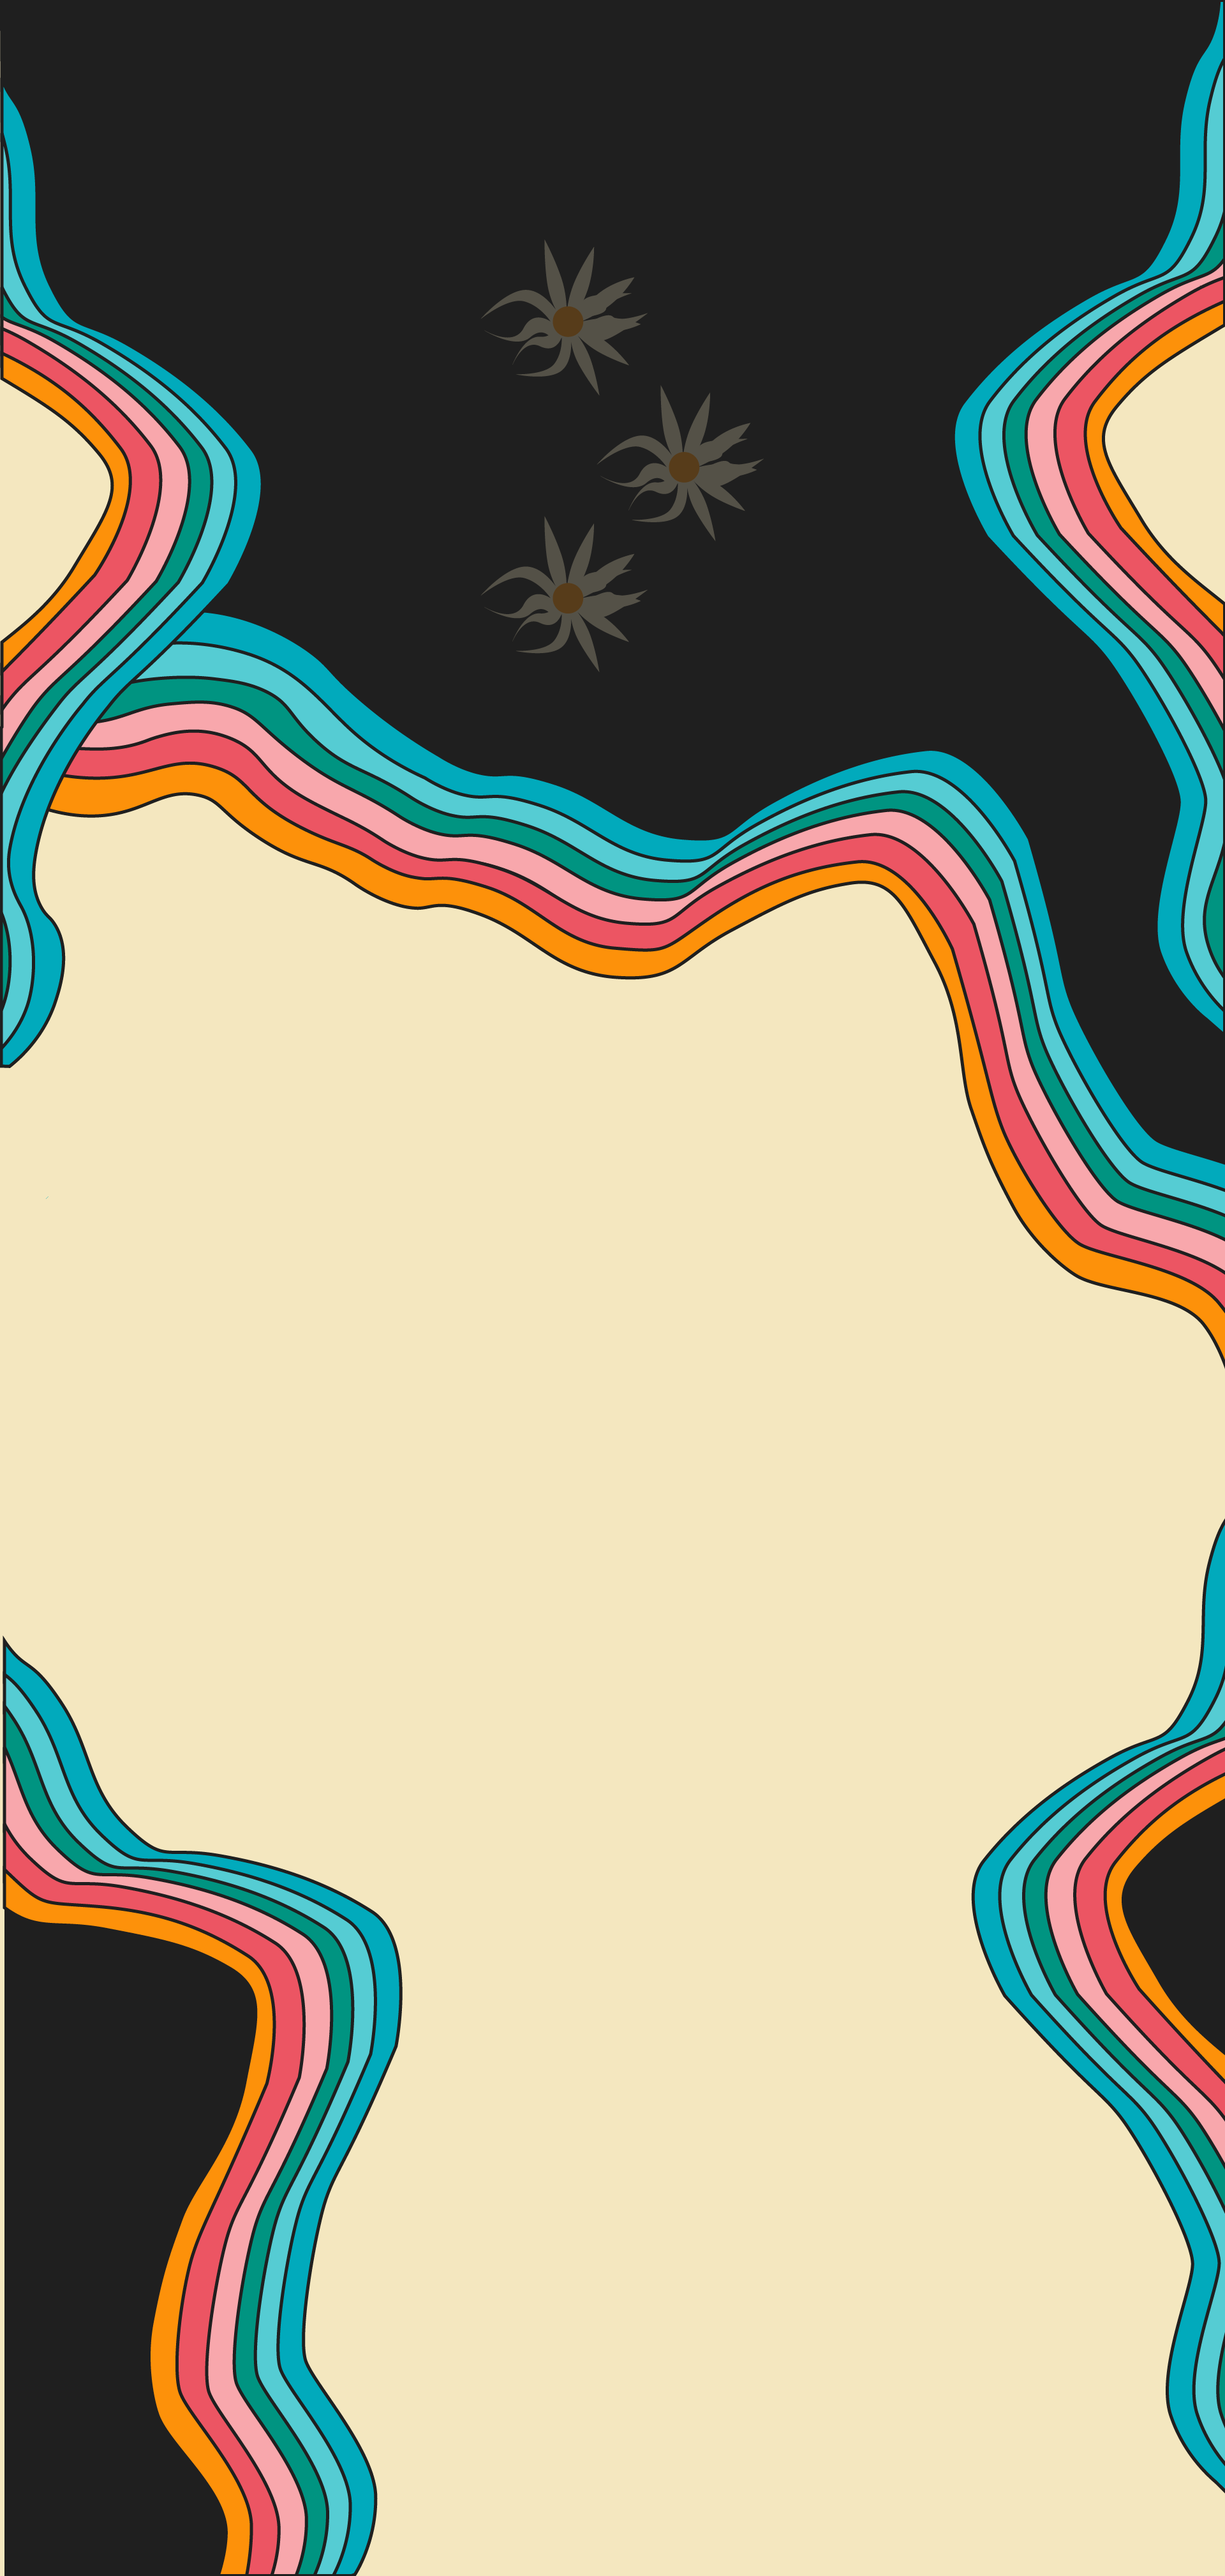
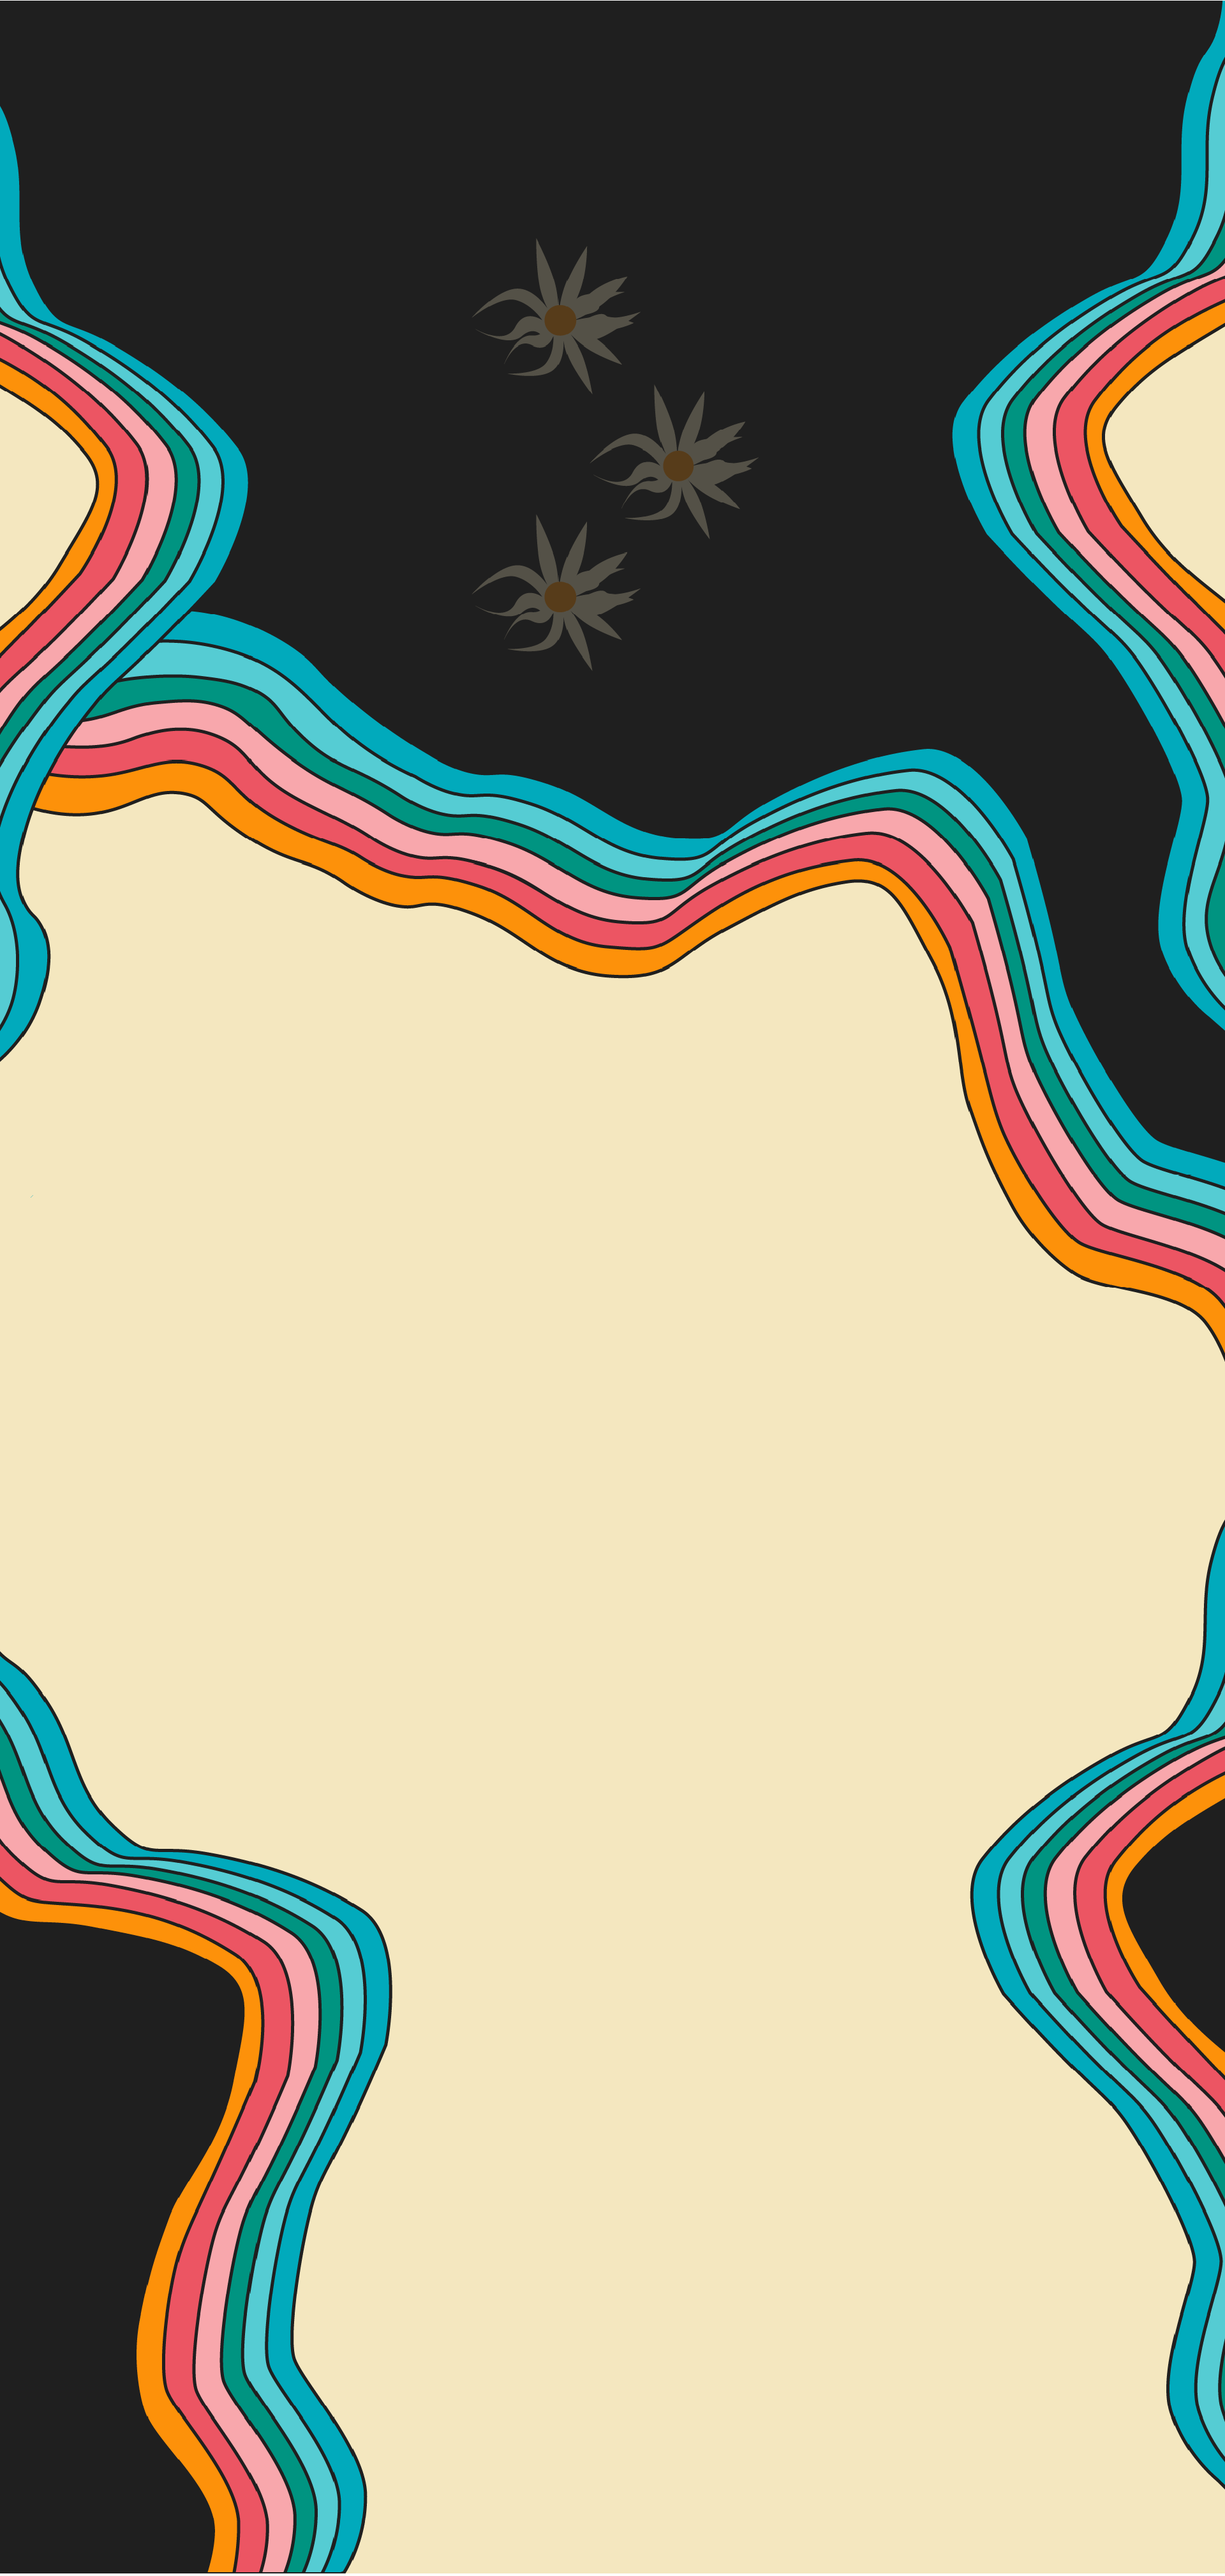
changes

diff --git a/CSS/contact.css b/CSS/contact.css
@@ -61,13 +61,7 @@ body {
     margin-top: 36vh;
 }
 
-.day-cards {
-    display: flex;
-    flex-direction: column;
-    gap: 40px;
-    max-width: 90%;
-    justify-content: center;
-}
+
 
 .day-card {
     border: 2px solid #1F1F1F;
@@ -82,6 +76,7 @@ body {
     /* text-overflow: ellipsis; */
     white-space: nowrap;
     background-color: #F4E7BF;
+    margin-bottom:15px;
 }
 
 /* ------------ LOCATION CONTAINER ----------- */
@@ -203,9 +198,9 @@ button {
     .day-cards {
         flex-wrap: wrap;
         flex: 60px;
-        gap: 40px;
+        max-height: 600px;
         height: 60vh;
-        width: 20%;
+        width: 30%;
         /* margin-left: -10vw; */
     }
 
@@ -275,4 +270,14 @@ button {
         z-index: 10;
     }
     /* Barbies easter egg */
+}
+
+@media screen and (max-width:900px) {
+.day-cards {
+    display: flex;
+    flex-wrap: nowrap;
+    flex-direction: column;
+    gap: 40px;
+    justify-content: center;
+}
 }

diff --git a/CSS/home.css b/CSS/home.css
@@ -1,7 +1,7 @@
 /*THe main image and title*/
 
 body {
-    background-image: url("/Pictures/mainpage_pc_compressed.png");
+    background-image: url("/Pictures/main_background.png");
     background-repeat: no-repeat;
     background-size: 101%;
     background-position-x: center;
@@ -131,6 +131,7 @@ body {
 
 .cardz {
     width: 80%;
+    max-width: 400px;
     margin-left: auto;
     margin-right: auto;
     display: block;
@@ -184,7 +185,7 @@ body {
         position: relative;
         text-align: center;
         height: 100vh;
-        top: 80vh;
+        top: 70vh;
     }
 
     .title-special-offers {
@@ -196,6 +197,7 @@ body {
 
     .cardz {
         width: 100%;
+        max-width: 400px;
         border: 2px solid #f4e7bf;
         border-radius: 30px;
     }

diff --git a/index.html b/index.html
@@ -142,8 +142,8 @@
         <h1 class="title title-special-offers">SPECIAL OFFERS</h1>
         <!-- Beer and coffee cards -->
         <div class="cardscontainer">
-          <a href="HTML/menucafe.html#coffeecard"> <img class="cardz" src="/Pictures/coffeecard.png" alt="main" /></a>
-          <a href="HTML/menucafe.html#beercard"> <img class="cardz" src="/Pictures/beercard.png" alt="main" /></a>
+          <a href="HTML/menucafe.html#coffeecard"> <img class="cardz" src="/Pictures/coffee_card.png" alt="main" /></a>
+          <a href="HTML/menucafe.html#beercard"> <img class="cardz" src="/Pictures/beer_card.png" alt="main" /></a>
         </div>
       </div>
     </main>

diff --git a/HTML/events.html b/HTML/events.html
@@ -127,7 +127,7 @@
         </p>
         <br><br><h2>Entrance:</h2>
         <p class="price-card">35 Kr.</p>
-    </div>-->
+    </div>
 
     <!--The Footer-->
     <footer>
